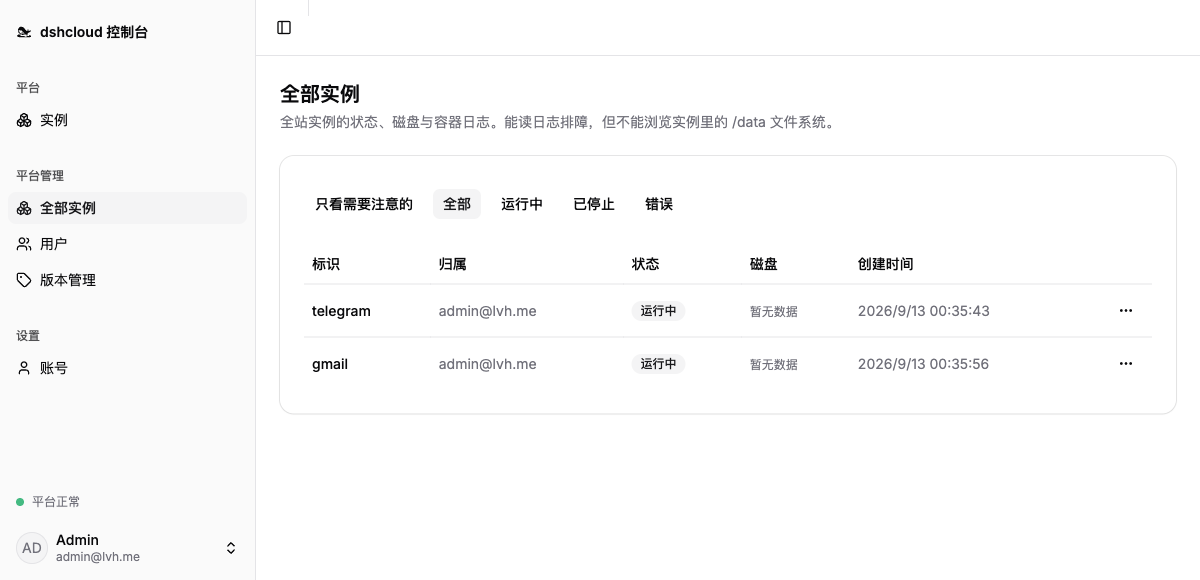
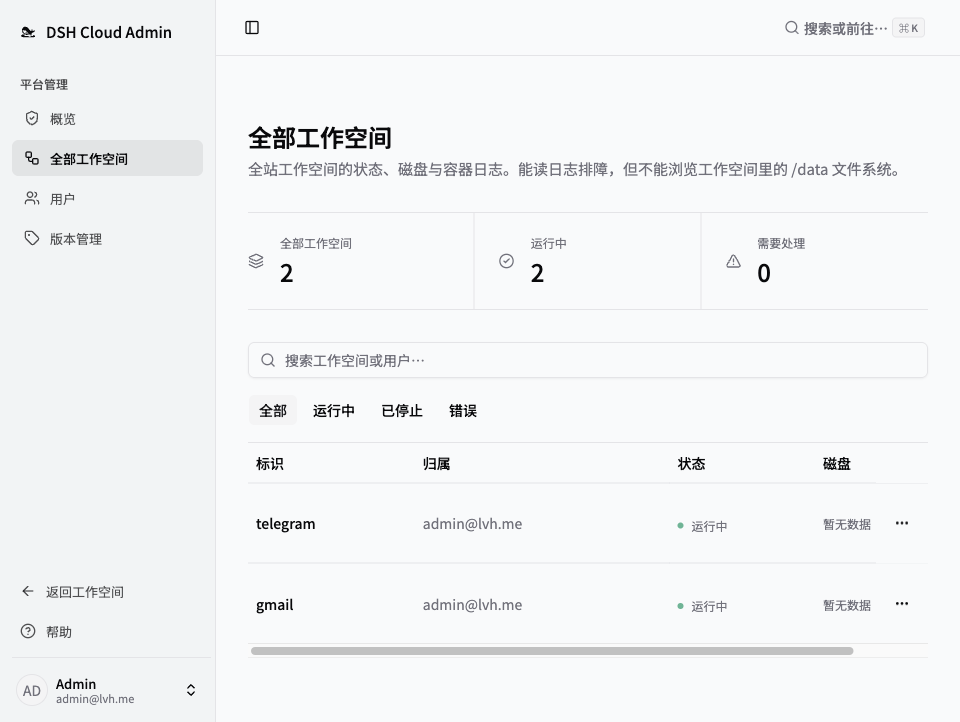
docs(readme): rewrite around workspaces and re-shoot the screenshots
The console's information architecture changed (home, workspaces, files, activity, admin
overview) and every screenshot was stale.

- Rewrite both README translations. The intro now says a workspace is a dsh instance plus
  the persistent storage that follows it; the feature list drops "instance management" for
  "workspace management" and gains a console entry points line; the create-an-instance
  walkthrough becomes create-a-workspace and mentions landing on Home.
- Re-shoot all 12 screenshots at 960px wide. GitHub's content column is about 830px, and
  1200 scaled down to 0.69 put 14px text at roughly 10px.
- Measure each page's height instead of hardcoding it. The new layout's pages differ too
  much for a single fixed value, and a stale constant either crops content or leaves a
  large blank area.
- Swap the page set for home / workspaces / workspace plus the admin overview, all
  instances and users. The files and activity pages are just workspace pickers and would
  have repeated the list.
- Delete the now-unreferenced instances.png and instance.png.

diff --git a/README.en.md b/README.en.md
@@ -22,32 +22,46 @@
   <a href="#contributing">Contributing</a>
 </p>
 
-**dshcloud** adds account management, instance provisioning and access control to [DeepSeek Harness](https://github.com/deepseek-ai/deepseek-harness) (`dsh`). Each instance runs in its own Docker container, with a dedicated network, persistent data volume and resource limits. Users access their instances through an authenticated subdomain; operators manage accounts, capacity and instance versions from a web console.
+**dshcloud** adds account management, workspace provisioning and access control to [DeepSeek Harness](https://github.com/deepseek-ai/deepseek-harness) (`dsh`). Each workspace is a dsh instance plus the persistent storage that follows it: the container runs on its own Docker network, and the data under `/data` is still there after a rebuild or an image change. Users reach their workspaces through an authenticated subdomain; operators manage accounts, capacity and available versions from a web console.
 
 > **Early development.** Use this project for evaluation and development. It is not production-ready; deployment validation and security work remain open. See the permission boundaries and operational limits in the [architecture and security model](docs/ARCHITECTURE.md) before exposing it to the internet.
 
 ## Features
 
-- **Instance management:** Create, start, stop, rebuild and delete instances. Per-user instance-count limits allow multiple instances within an assigned quota.
-- **Resource controls:** CPU, memory and process limits, plus a hard capacity limit on each instance's `/data` filesystem. Administrators can adjust resource quotas after creation.
-- **Authenticated access:** Per-instance subdomains behind Traefik, owner authorization and an instance-specific HMAC-derived gate token. Instances publish ports on the host loopback only, never on a public interface.
-- **Persistent workspaces:** Workspace, configuration and installed user packages all live under `/data` — its own subdirectory in the storage pool, under an XFS project quota — so they survive instance rebuilds and image changes. Image changes take a pre-upgrade snapshot for rollback.
-- **Operations:** Account bans, quota management, version publishing, runtime-backed status, usage sampling and instance log streaming. See the role boundaries below.
+- **Workspace management:** Create, start, stop, rebuild and delete workspaces. Per-user limits allow multiple workspaces within an assigned quota.
+- **Resource controls:** CPU, memory and process limits, plus a hard capacity limit on each workspace's `/data` filesystem. Administrators can adjust resource quotas after creation.
+- **Authenticated access:** Per-workspace subdomains behind Traefik, owner authorization and an HMAC-derived entry token unique to each workspace. Workspaces publish ports on the host loopback only, never on a public interface.
+- **Persistent data:** Files, configuration and installed user packages all live under `/data` — its own subdirectory in the storage pool, under an XFS project quota — so they survive rebuilds and image changes. Image changes take a pre-upgrade snapshot for rollback.
+- **Operations:** Account bans, quota management, version publishing, runtime-backed status, usage sampling and workspace log streaming. See the role boundaries below.
+- **Console entry points:** Home answers "what was I doing", with workspaces, files and activity as separate entry points and a ⌘K command menu to search or jump; administration has its own navigation.
 - **Bilingual console:** English and Simplified Chinese, light and dark themes, email/password sign-in and session management.
 
 ## Screenshots
 
-### Instance list
+### Home
 
 <p>
-  <a href="docs/screenshots/en/instances.png"><img src="docs/screenshots/en/instances.png" alt="Instance list" width="100%"></a>
+  <a href="docs/screenshots/en/home.png"><img src="docs/screenshots/en/home.png" alt="Home: recent workspaces, quick actions and recent activity" width="100%"></a>
 </p>
 
-### Instance details
+### Workspaces
 
 <p>
-  <a href="docs/screenshots/en/instance.png"><img src="docs/screenshots/en/instance.png" alt="Instance details, version and upgrade" width="100%"></a>
+  <a href="docs/screenshots/en/workspaces.png"><img src="docs/screenshots/en/workspaces.png" alt="Workspace list" width="100%"></a>
 </p>
+
+### Workspace details
+
+<p>
+  <a href="docs/screenshots/en/workspace.png"><img src="docs/screenshots/en/workspace.png" alt="Workspace details, files entry and version" width="100%"></a>
+</p>
+
+<details>
+  <summary>Administration · Overview</summary>
+  <p>
+    <a href="docs/screenshots/en/admin.png"><img src="docs/screenshots/en/admin.png" alt="Administration · Overview" width="100%"></a>
+  </p>
+</details>
 
 <details>
   <summary>Administration · All instances</summary>
@@ -72,9 +86,9 @@ The Compose stacks in this repository target local development, not a production
 ### Prerequisites
 
 - Node.js 22 or later and pnpm 10.10.0, as specified in [package.json](package.json).
-- Docker Desktop that can run Linux containers and ships Compose v2. The control plane connects to its daemon **at startup**, not only when creating instances.
+- Docker Desktop that can run Linux containers and ships Compose v2. The control plane connects to its daemon **at startup**, not only when creating workspaces.
 - Host ports `80` / `443` / `3000` / `5173` / `55432` free.
-- **A hard disk quota needs the host filesystem to provide it:** instance data lives under `HOST_STORAGE_ROOT` (`pnpm dev` uses `~/dsh-data`). On Linux it must be **XFS mounted with `pquota`**; if it is not XFS the platform builds its own loopback XFS image and mounts it (needs `CAP_SYS_ADMIN`), and if neither works it **refuses to start**. macOS / Docker Desktop kernels ship without quota support → it degrades to "not enforced plus a warning" and the console labels quotas as "no limit". See [D18](docs/DECISIONS.md).
+- **A hard disk quota needs the host filesystem to provide it:** workspace data lives under `HOST_STORAGE_ROOT` (`pnpm dev` uses `~/dsh-data`). On Linux it must be **XFS mounted with `pquota`**; if it is not XFS the platform builds its own loopback XFS image and mounts it (needs `CAP_SYS_ADMIN`), and if neither works it **refuses to start**. macOS / Docker Desktop kernels ship without quota support → it degrades to "not enforced plus a warning" and the console labels quotas as "no limit". See [D18](docs/DECISIONS.md).
 
 ### Run it
 
@@ -116,9 +130,11 @@ then delete `apps/server/.env.local`.
 
 Traefik has no certificate configured, so it falls back to its built-in default self-signed certificate (`CN=TRAEFIK DEFAULT CERT`) and the browser shows a red lock — click "Advanced → Proceed". Rationale in [D26](docs/DECISIONS.md). For a green lock, sign a certificate whose SAN covers `DNS:lvh.me,DNS:*.lvh.me` and add it to your system trust store; the repository does not include this step.
 
-### Create an instance
+### Create a workspace
 
-On the "Versions" page click "Check for updates" to read GHCR tags into the catalog, then "Publish" the version you want and "Set as default" if needed. For **users to be able to upgrade** to a version you must also "Pre-warm on this host" — the upgrade picker only lists versions already cached locally (rationale in [D23](docs/DECISIONS.md)); **creating an instance is not affected**, missing images are pulled automatically.
+You land on **Home** after signing in: recently used workspaces on top, quick actions and recent activity below.
+
+On the "Versions" page click "Check for updates" to read GHCR tags into the catalog, then "Publish" the version you want and "Set as default" if needed. For **users to be able to upgrade** to a version you must also "Pre-warm on this host" — the upgrade picker only lists versions already cached locally (rationale in [D23](docs/DECISIONS.md)); **creating a workspace is not affected**, missing images are pulled automatically.
 
 Build locally only if you changed `docker/instance-image/`:
 
@@ -128,7 +144,7 @@ Build locally only if you changed `docker/instance-image/`:
 
 The tag comes from [VERSION](docker/instance-image/VERSION) and reads `<dsh version>_<our revision>` (e.g. `0.1.2-rc.1_2`); local builds and CI use the same full name `ghcr.io/eskim2001/dsh-instance:<tag>`. See [D22](docs/DECISIONS.md).
 
-Then create one on the "Instances" page and open it.
+Then create one on the "Workspaces" page and open it.
 
 > For the ingress topology, why `lvh.me`, and the pitfalls (Clash PAC, restarting the container after ingress config changes), see the [local ingress guide](docker/compose/README.md).
 
@@ -148,7 +164,7 @@ The detailed guides currently contain primarily Chinese text.
 | [Storage selection & measurements](docs/storage/README.md) | Giving a container a disk with a hard limit: the four options, measured, and how dev machines degrade |
 | [Design decisions](docs/DECISIONS.md) | Technical choices and trade-offs |
 | [Open questions](docs/OPEN-QUESTIONS.md) | Unresolved validation and known gaps |
-| [Local ingress](docker/compose/README.md) | DNS, TLS and instance access in development |
+| [Local ingress](docker/compose/README.md) | DNS, TLS and workspace access in development |
 | [Configuration](.env.example) | Server environment template |
 | [Contributor guidance](AGENTS.md) | Local development, repository layout and conventions |
 | [Security policy](SECURITY.md) | Vulnerability reporting and scope |

diff --git a/README.md b/README.md
@@ -23,32 +23,46 @@
   <a href="#参与贡献">参与贡献</a>
 </p>
 
-**dshcloud** 为 [DeepSeek Harness](https://github.com/deepseek-ai/deepseek-harness)（`dsh`）提供账号管理、实例创建和访问控制。每个实例跑在独立的 Docker 容器里，拥有专属网络、持久化数据卷和资源限制。用户通过经过认证的子域访问自己的实例，运营者通过 Web 管理台管理账号、资源容量和实例版本。
+**dshcloud** 为 [DeepSeek Harness](https://github.com/deepseek-ai/deepseek-harness)（`dsh`）提供账号管理、工作空间创建和访问控制。每个工作空间是一个独立的 dsh 实例，外带一份跟着它走的持久化存储：容器跑在自己的 Docker 网络里，`/data` 里的数据在重建、换镜像之后都还在。用户通过经过认证的子域进入自己的工作空间，运营者通过 Web 管理台管理账号、资源容量和可用版本。
 
 > **项目处于早期开发阶段。** 当前适合评估与开发，尚不具备生产可用性；部署验证和安全工作仍有未决项。暴露到公网前，请先阅读[架构与安全模型](docs/ARCHITECTURE.md)里的权限边界与运行限制。
 
 ## 功能
 
-- **实例管理：** 创建、启动、停止、重建和删除实例。通过每用户实例数上限，允许用户在分配的额度内拥有多个实例。
-- **资源控制：** CPU、内存、进程数限制，以及每实例 `/data` 文件系统的容量硬限制。管理员可以在创建后调整资源配额。
-- **认证访问：** Traefik 后的实例独立子域、所有者授权，以及通过 HMAC 派生的实例专属入口令牌。实例只在宿主回环上发布端口，不对公网暴露。
-- **持久化工作区：** 工作区、配置和用户安装的软件包都落在 `/data`（池子里的独立子目录，带 XFS project quota 硬配额），实例重建与镜像切换都不丢。镜像切换前先打一份数据快照，失败可回滚。
-- **运维管理：** 账号封禁、配额管理、版本上架、基于运行时的状态查询、用量采样和实例日志流。各角色的权限边界见下文。
+- **工作空间管理：** 创建、启动、停止、重建和删除工作空间。通过每用户数量上限，允许用户在分配的额度内拥有多个。
+- **资源控制：** CPU、内存、进程数限制，以及每工作空间 `/data` 文件系统的容量硬限制。管理员可以在创建后调整资源配额。
+- **认证访问：** Traefik 后的工作空间独立子域、所有者授权，以及通过 HMAC 派生的专属入口令牌。工作空间只在宿主回环上发布端口，不对公网暴露。
+- **持久化数据：** 文件、配置和用户安装的软件包都落在 `/data`（池子里的独立子目录，带 XFS project quota 硬配额），重建与镜像切换都不丢。镜像切换前先打一份数据快照，失败可回滚。
+- **运维管理：** 账号封禁、配额管理、版本上架、基于运行时的状态查询、用量采样和工作空间日志流。各角色的权限边界见下文。
+- **控制台入口：** 主页回答「接着做什么」，工作空间、文件、活动三个入口各司其职，⌘K 命令面板随时搜索或跳转。管理面另有一套导航。
 - **双语管理台：** 英文与简体中文、明暗主题、邮箱密码登录和会话管理。
 
 ## 截图
 
-### 实例列表
+### 主页
 
 <p>
-  <a href="docs/screenshots/zh-CN/instances.png"><img src="docs/screenshots/zh-CN/instances.png" alt="实例列表" width="100%"></a>
+  <a href="docs/screenshots/zh-CN/home.png"><img src="docs/screenshots/zh-CN/home.png" alt="主页：最近的工作空间、快捷操作与最近活动" width="100%"></a>
 </p>
 
-### 实例详情
+### 工作空间
 
 <p>
-  <a href="docs/screenshots/zh-CN/instance.png"><img src="docs/screenshots/zh-CN/instance.png" alt="实例详情、版本与升级" width="100%"></a>
+  <a href="docs/screenshots/zh-CN/workspaces.png"><img src="docs/screenshots/zh-CN/workspaces.png" alt="工作空间列表" width="100%"></a>
 </p>
+
+### 工作空间详情
+
+<p>
+  <a href="docs/screenshots/zh-CN/workspace.png"><img src="docs/screenshots/zh-CN/workspace.png" alt="工作空间详情、文件入口与版本" width="100%"></a>
+</p>
+
+<details>
+  <summary>平台管理 · 概览</summary>
+  <p>
+    <a href="docs/screenshots/zh-CN/admin.png"><img src="docs/screenshots/zh-CN/admin.png" alt="平台管理 · 概览" width="100%"></a>
+  </p>
+</details>
 
 <details>
   <summary>平台管理 · 全部实例</summary>
@@ -73,9 +87,9 @@
 ### 前置条件
 
 - Node.js 22 或更新版本，以及 pnpm 10.10.0，版本要求见 [package.json](package.json)。
-- 装了 Docker Desktop（能跑 Linux 容器，且带 Compose v2）。控制面**启动时**就要连它的 daemon，不是只在建实例时才用。
+- 装了 Docker Desktop（能跑 Linux 容器，且带 Compose v2）。控制面**启动时**就要连它的 daemon，不是只在创建工作空间时才用。
 - 宿主端口 `80` / `443` / `3000` / `5173` / `55432` 空闲。
-- **磁盘硬配额要靠宿主文件系统**：实例数据落在 `HOST_STORAGE_ROOT`（`pnpm dev` 默认 `~/dsh-data`）下，Linux 上要求它是 **XFS 且以 `pquota` 挂载**；不是 XFS 时平台会自己建一块 loopback XFS 镜像挂上去（要 `CAP_SYS_ADMIN`），两条都做不到就**拒绝启动**。macOS / Docker Desktop 的内核没编配额支持 → 退化为「不强制 + 一行警告」，界面里的配额标成「无上限」。见 [D18](docs/DECISIONS.md)。
+- **磁盘硬配额要靠宿主文件系统**：工作空间数据落在 `HOST_STORAGE_ROOT`（`pnpm dev` 默认 `~/dsh-data`）下，Linux 上要求它是 **XFS 且以 `pquota` 挂载**；不是 XFS 时平台会自己建一块 loopback XFS 镜像挂上去（要 `CAP_SYS_ADMIN`），两条都做不到就**拒绝启动**。macOS / Docker Desktop 的内核没编配额支持 → 退化为「不强制 + 一行警告」，界面里的配额标成「无上限」。见 [D18](docs/DECISIONS.md)。
 
 ### 起
 
@@ -117,9 +131,11 @@ docker compose -f docker/compose/local.yml down -v
 
 Traefik 没配证书，回落到它内置的默认自签证书（`CN=TRAEFIK DEFAULT CERT`），所以会红锁——点「高级 → 继续访问」。理由见 [D26](docs/DECISIONS.md)。想要绿锁就自己签一张 SAN 覆盖 `DNS:lvh.me,DNS:*.lvh.me` 的证书装进系统信任库；仓库默认不含这一步。
 
-### 建一个实例
+### 建一个工作空间
 
-在「版本管理」页点「检查更新」把 GHCR 上的版本读进来，再对某一版「上架」、必要时「设为默认」。要让**用户能升级**到某一版，还得先把它「预热到本机」—— 用户面的升级列表只列本机已缓存的版本（理由见 [D23](docs/DECISIONS.md)）；**新建实例不受这条限制**，缺的镜像会自动拉。
+登录后落在「主页」：最近用过的空间在最上面，下面是快捷操作和最近活动。
+
+在「版本管理」页点「检查更新」把 GHCR 上的版本读进来，再对某一版「上架」、必要时「设为默认」。要让**用户能升级**到某一版，还得先把它「预热到本机」—— 用户面的升级列表只列本机已缓存的版本（理由见 [D23](docs/DECISIONS.md)）；**新建工作空间不受这条限制**，缺的镜像会自动拉。
 
 只有改了 `docker/instance-image/` 才需要本地构建：
 
@@ -129,7 +145,7 @@ Traefik 没配证书，回落到它内置的默认自签证书（`CN=TRAEFIK DEF
 
 tag 由 [VERSION](docker/instance-image/VERSION) 决定，格式是 `<dsh版本>_<修订号>`（如 `0.1.2-rc.1_2`），本地和 CI 打的是同一个全名 `ghcr.io/eskim2001/dsh-instance:<tag>`。见 [D22](docs/DECISIONS.md)。
 
-然后在「实例」页新建一个，点开它就在浏览器里跑起来了。
+然后在「工作空间」页新建一个，点开它就在浏览器里跑起来了。
 
 > 入口栈的拓扑、为什么是 `lvh.me`、以及会踩的坑（Clash PAC、改入口配置要重启容器）见[本地入口指南](docker/compose/README.md)。
 
@@ -149,7 +165,7 @@ tag 由 [VERSION](docker/instance-image/VERSION) 决定，格式是 `<dsh版本>
 | [存储选型与实测](docs/storage/README.md) | 给容器一块有硬上限的盘：四条路的实测数据、开发机怎么退化 |
 | [设计决策](docs/DECISIONS.md) | 技术选择与取舍 |
 | [待验证问题](docs/OPEN-QUESTIONS.md) | 未决验证与已知缺口 |
-| [本地入口](docker/compose/README.md) | 开发环境中的 DNS、TLS 与实例访问 |
+| [本地入口](docker/compose/README.md) | 开发环境中的 DNS、TLS 与工作空间访问 |
 | [配置](.env.example) | 控制面环境变量模板 |
 | [贡献者指南](AGENTS.md) | 本地开发、仓库结构与约定 |
 | [安全策略](SECURITY.md) | 漏洞报告方式与范围 |
